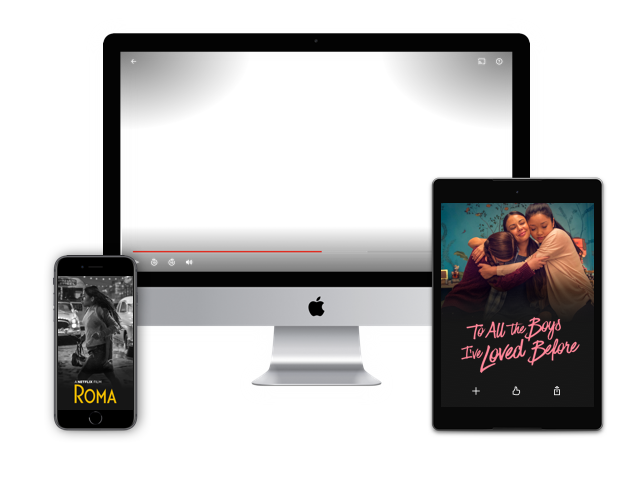
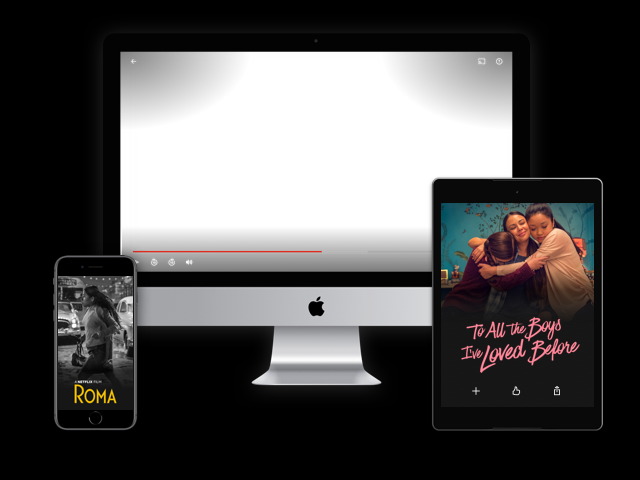
style: Changement image TV style: Changement image Mac refactor: Ajout index au footer refactor: Mise en responsive des vidéos

diff --git a/src/views/Home.vue b/src/views/Home.vue
@@ -90,7 +90,8 @@
                     </b-col>
 
                     <b-col md=6>
-                        <b-img style="z-index: 2;" src="../assets/tv.png" alt="Test" fluid-grow center></b-img>
+                        <video class="video-tv" src="https://assets.nflxext.com/ffe/siteui/acquisition/ourStory/fuji/desktop/video-tv-0819.m4v" muted loop autoplay></video>
+                        <b-img style="position: absolute; top: -1%; z-index: 2;" src="../assets/tv.png" alt="Test" fluid-grow center></b-img>
                     </b-col>
             </b-row>
 
@@ -121,7 +122,8 @@
                     </b-col>
 
                     <b-col md=6>
-                        <b-img src="../assets/device-pile.png" alt="Test" fluid center></b-img>
+                        <video class="video-mac" src="https://assets.nflxext.com/ffe/siteui/acquisition/ourStory/fuji/desktop/video-devices.m4v" muted loop autoplay></video>
+                        <b-img style="position: absolute; top: -10%; left: 15%; z-index: 1; width: 70%" src="../assets/device-pile.png" alt="Test" fluid center></b-img>
                     </b-col>
             </b-row>
 
@@ -236,9 +238,16 @@ export default {
 }
 
 .video-tv {
-    position: relative;
-    z-index: 1;
-    top: -370px;
-    left: 10px
+  z-index: 1;
+  width: 100%;
+  height: 100%;
+}
+
+.video-mac {
+  position: relative;
+  z-index: 1;
+  width: 70%;
+  left: 15%;
+  height: 100%;
 }
 </style>

diff --git a/src/components/Footer.vue b/src/components/Footer.vue
@@ -54,6 +54,7 @@ export default {
 <style lang="scss">
 footer {
   position: fixed;
+  z-index: 9999;
   bottom: 0;
   width: 100%;
   /* Set the fixed height of the footer here */
